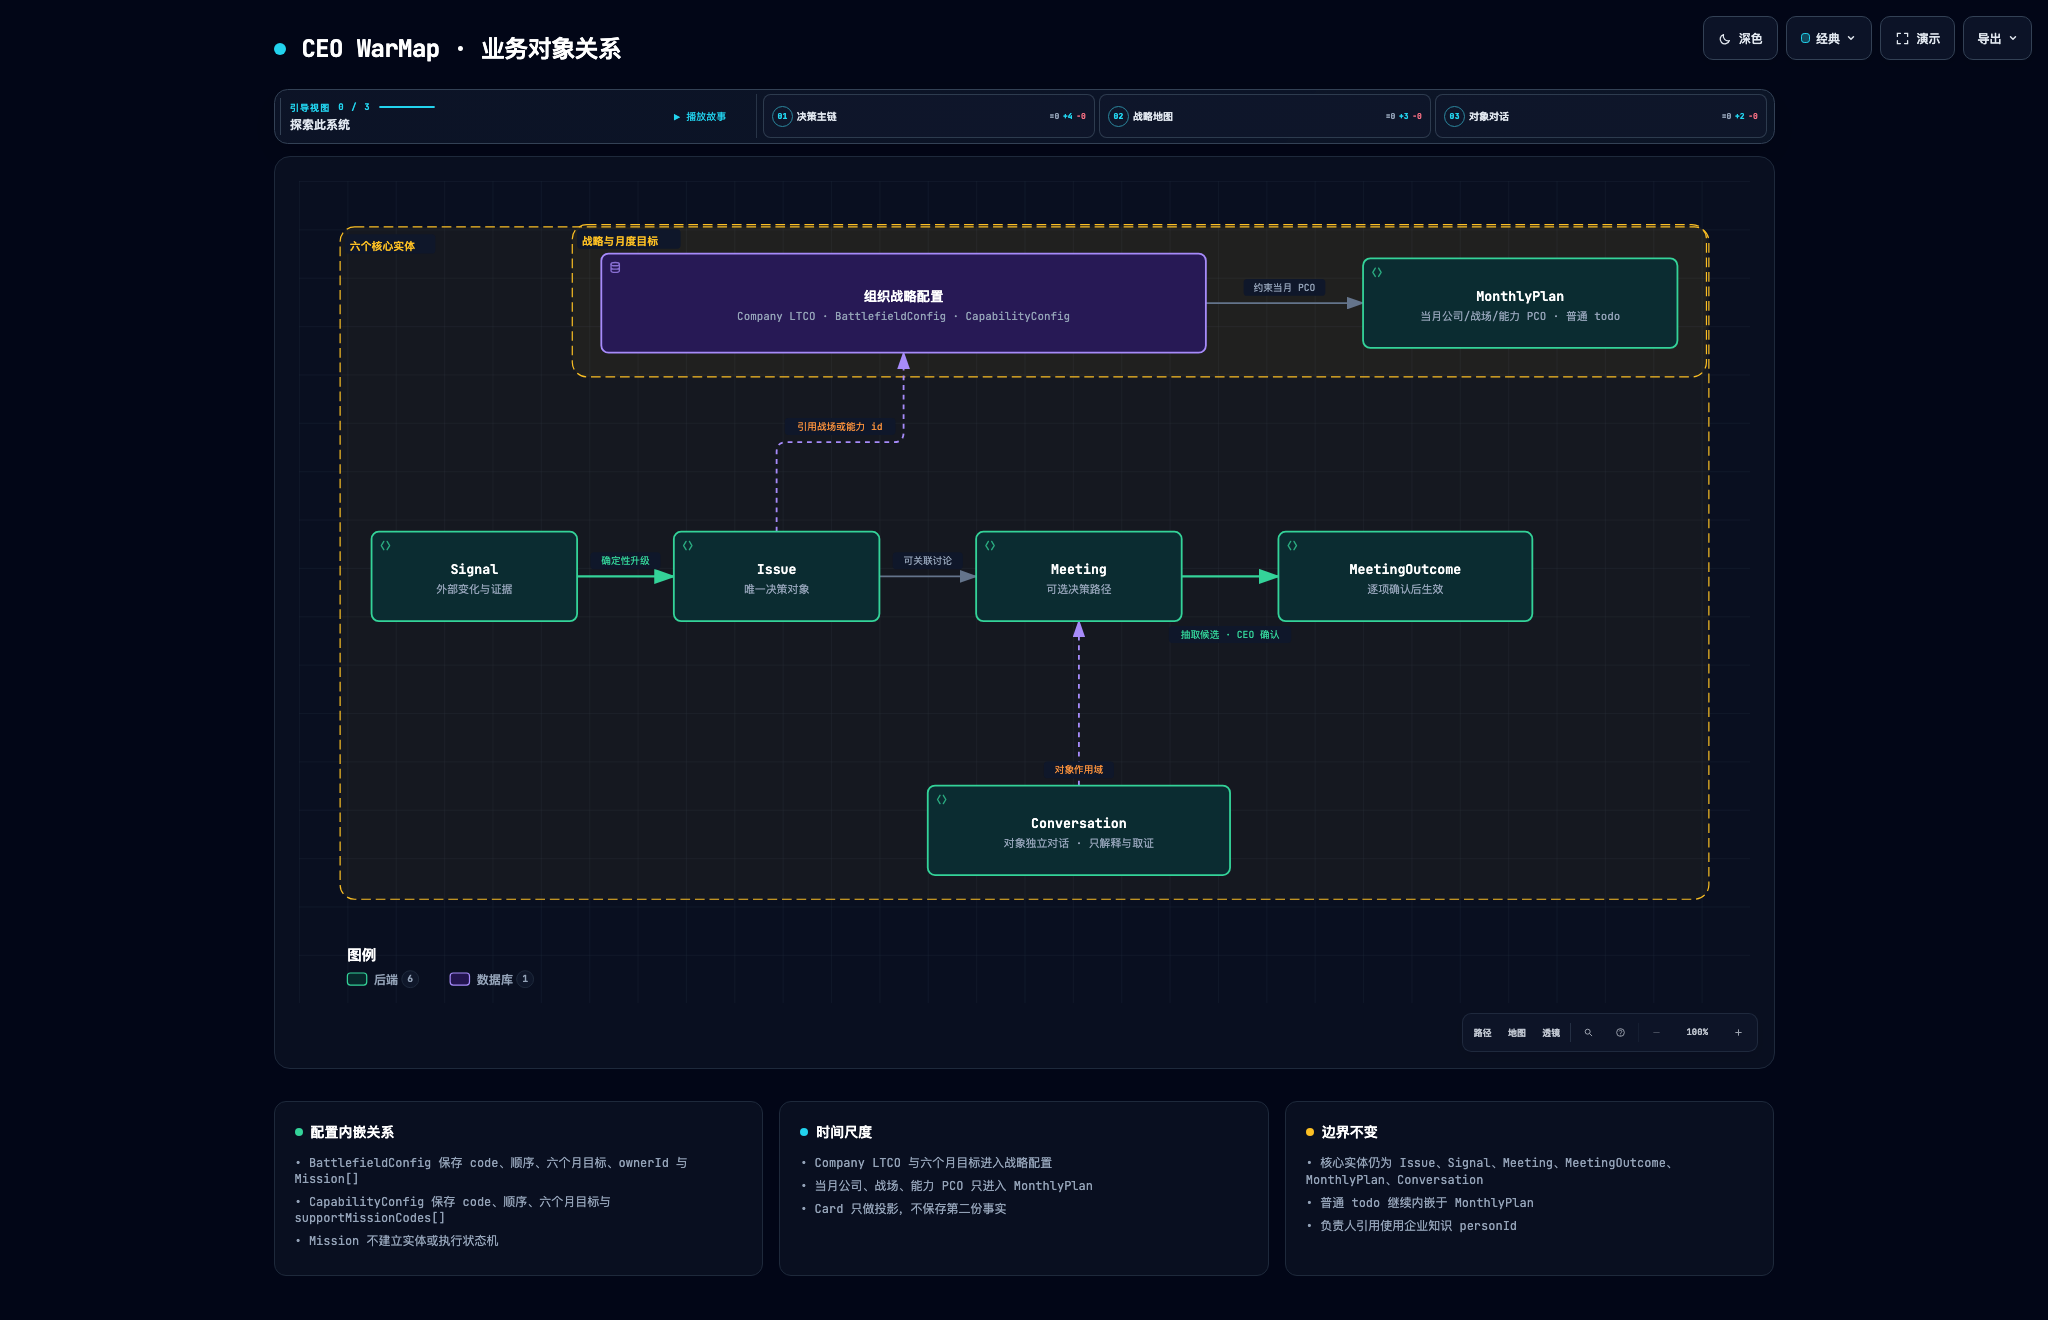
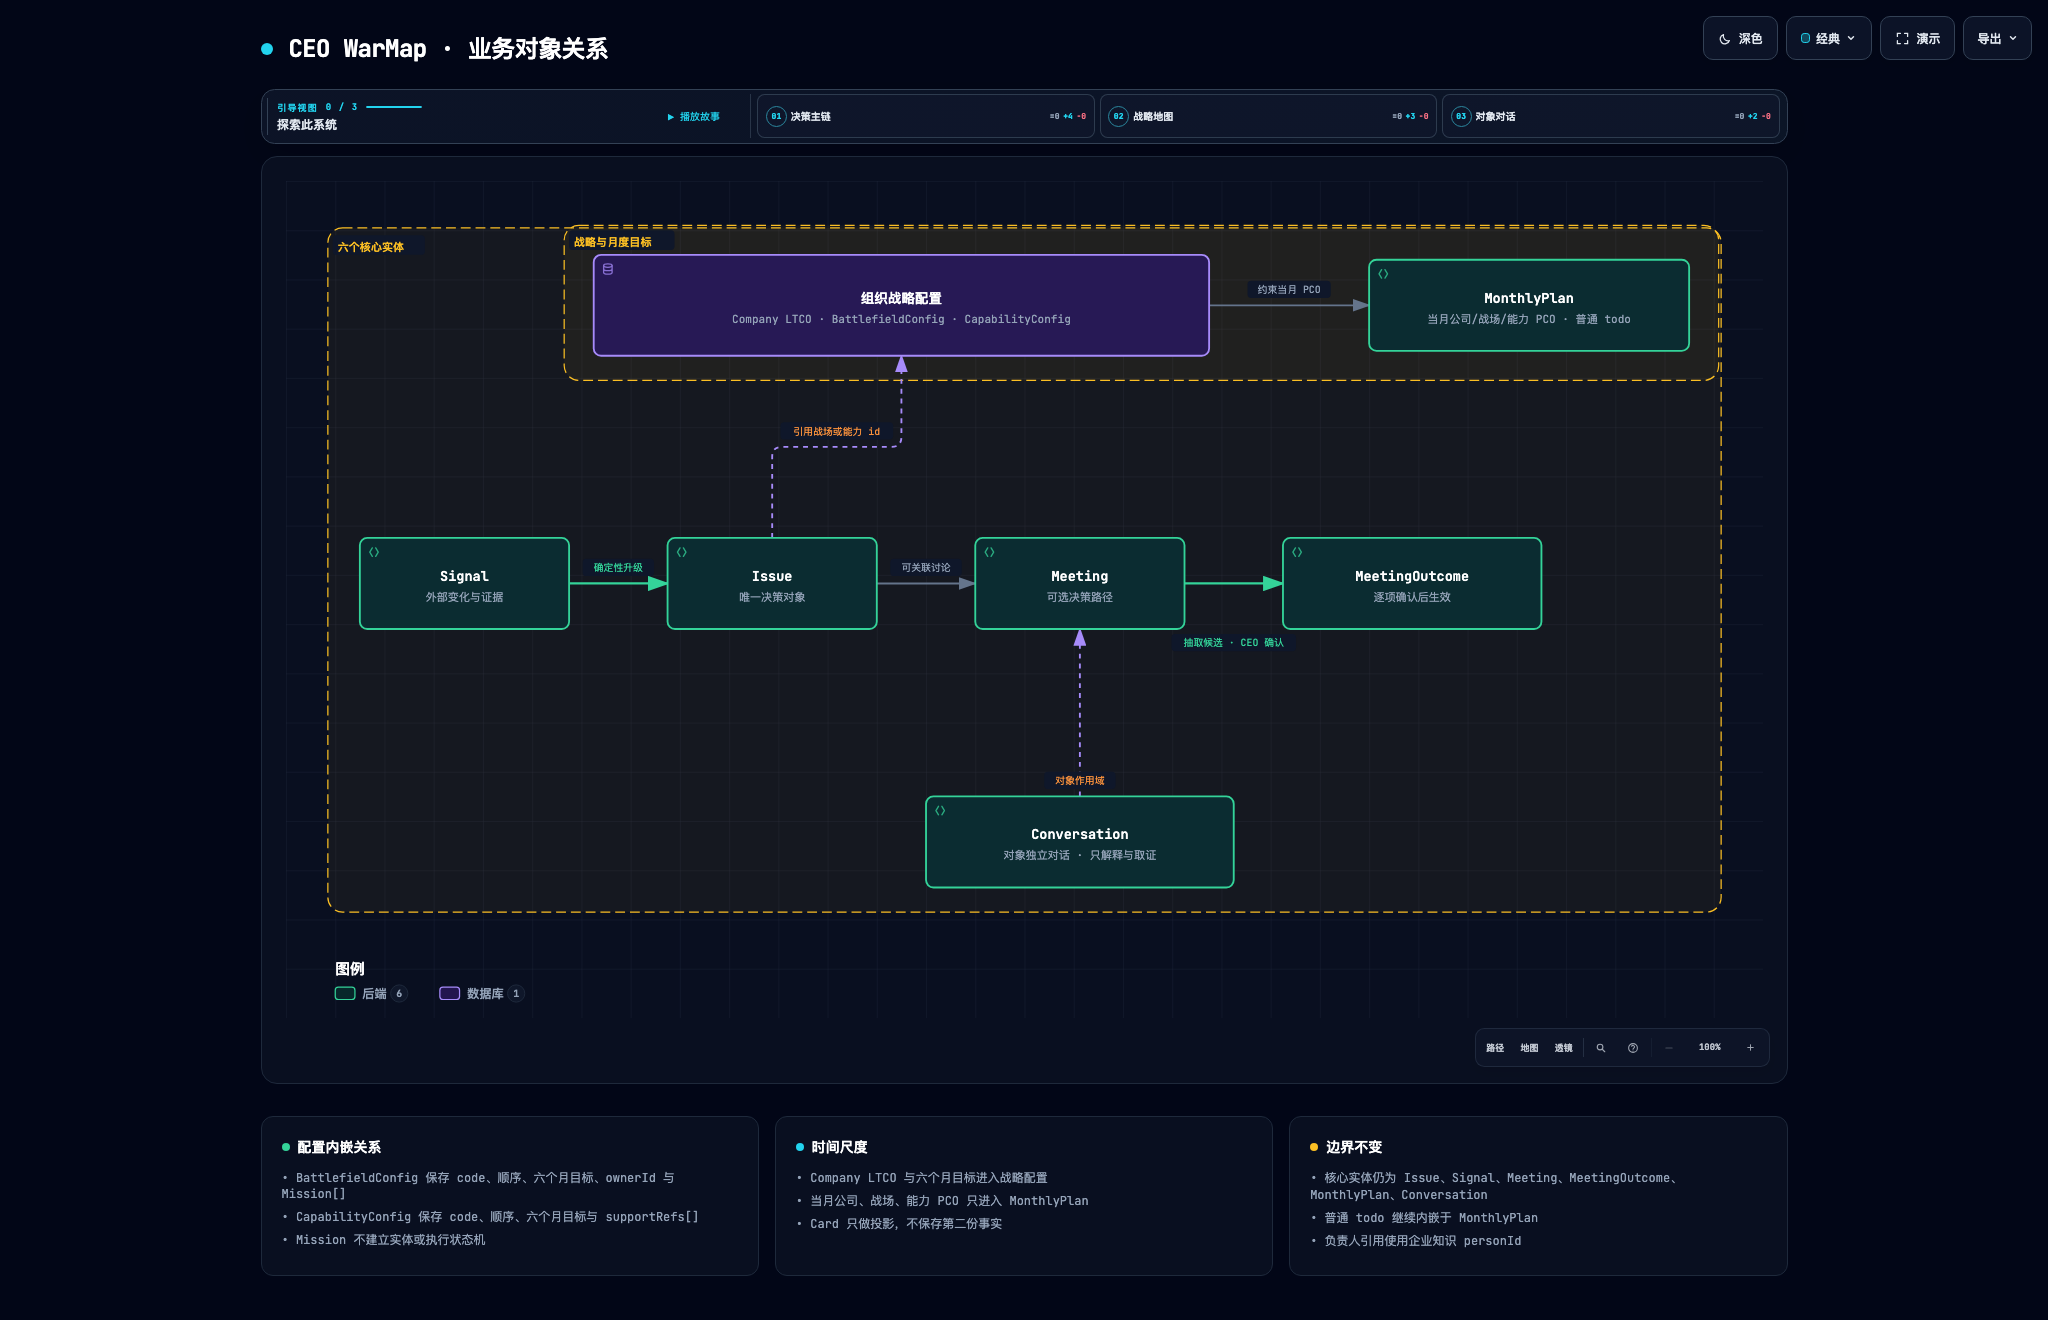
chore(strategy-map): 导入战场图数据、重出关系图并完成 staging 验收
- 关系图 `supportMissionCodes[]` → `supportRefs[]`，Archify validate 9/9 +
  deliver + 全视口 visual-check 重跑；README 架构图列表补入口。
- W5 经 API 导入 LTCO、3 个战场（含 Mission）与 7 个能力（含 supportRefs）；
  `DELETE /api/config/battlefields/growth` 走 deleteBattlefield，受影响议题 0。
- 已签发 2026-09 MonthlyPlan 经授权受控 SQL 事务修订为 v6：
  3 战场 PCO + 7 能力 PCO + 补全 checkedItemIds；company_outcome 占位未动。
- ticket 26 Status → resolved，补 W5 验证记录；map.md 追加 26 resolved。

diff --git a/docs/diagrams/CEOwarmap_业务对象关系.html b/docs/diagrams/CEOwarmap_业务对象关系.html
@@ -5496,7 +5496,7 @@ OTHER DEALINGS IN THE FONT SOFTWARE.
         </div>
         <ul>
           <li>&bull; BattlefieldConfig 保存 code、顺序、六个月目标、ownerId 与 Mission[]</li>
-          <li>&bull; CapabilityConfig 保存 code、顺序、六个月目标与 supportMissionCodes[]</li>
+          <li>&bull; CapabilityConfig 保存 code、顺序、六个月目标与 supportRefs[]</li>
           <li>&bull; Mission 不建立实体或执行状态机</li>
         </ul>
       </div>

diff --git a/.scratch/ceo-warmap-mvp/issues/26-strategy-map-structured-model.md b/.scratch/ceo-warmap-mvp/issues/26-strategy-map-structured-model.md
@@ -1,7 +1,7 @@
 # Ticket 26 · 战场图结构化模型（A+B）
 
 Type: feature
-Status: planned
+Status: resolved
 Blocked by: none
 来源: 词元云集《战场图 V1》图片导入 + 用户选择 A+B
 视觉基线: `UpgradeDesign.pen`
@@ -105,3 +105,32 @@ Blocked by: none
 - Mission 只有配置引用，无执行状态。
 - 关系图与代码一致且通过 Archify 验证。
 - 工作区干净，未 push。
+
+## Comments
+
+### W5 完成记录（2026-09-22）
+
+提交：W1 `bd3fd29`、W2 `762b918`、W3 `520f6ed`、W4 `3b9a1da`、W5（本次）。
+
+**迁移与对象关系**：migration `019_strategy_map_config.sql` 只改结构（`battlefield_config` 增加 `code/sort_order/owner_id/six_month_outcome/missions`，唯一索引 `battlefield_config_code_key … WHERE code <> ''`，CHECK `sort_order BETWEEN 0 AND 9999`；新建 `company_strategy_config`，仅插入 `('default',1,'')`；`capability_config` 增加 `code/sort_order/group/support_refs`），不写任何图片业务数据。数据由 W5 通过 API 与受控 SQL 事务导入。
+
+**数据导入（全部经 API，未直写业务表）**：
+- `PATCH /api/config/strategy` → `{version:2, ltco:春节前…真实价值。}`。
+- `PATCH /api/config/battlefields/{id}`：`01-灯塔项目`（code 01/10、4 个 Mission）、`02-token-ops`（code 02/20、1 个 Mission）、`03-002-客户`（code 03/30、无 Mission）；`ownerId` 未设置，保持「待指派」。
+- `PATCH /api/config/capabilities/{id}`：7 项，`code/sortOrder` 为 02/20…09/90，`group` 清空，`supportRefs` 按 ticket 事实写入。
+- `DELETE /api/config/battlefields/growth`（走 `deleteBattlefield`）：删除前用 SQL 记录受影响议题 = **0**（`detachedIssues = 0`，无 `growth` 引用），响应 204；删除后战场 = 3。
+- 已签发 2026-09 MonthlyPlan（id `ffc24db5-8b4e-4766-ac64-4a7cdaf00aeb`）经授权用受控 SQL 事务修订：`version 5 → 6`，写入 3 个战场 PCO + 7 个能力 PCO，`negotiation.checkedItemIds` 补全为 11 项；`company_outcome` 占位、`todos`/`feedback`/`exports` 未动。API 对已签发计划返回 409 `MONTHLY_PLAN_CONFIRMED`，故必须走受控事务。
+
+**测试**：typecheck ×3 通过；contracts 32；web 21 文件 / 123；API 27 文件 / 328（326 通过，`outletSources.test.ts` 2 项为与本次无关的既有时间窗波动）。
+
+**staging（重建 api+web、迁移 019 已应用）**：
+- `GET /api/config/battlefields` → 3 项，code/sortOrder 01/10、02/20、03/30，负责人均为空（待指派），Mission 4/1/0。
+- `GET /api/config/capabilities` → 7 项，02/20…09/90，`group` 空，`supportRefs` 与 ticket 一致。
+- `GET /api/cards/home` → 3 张 battlefield + 7 张 capability，顺序与图片一致。
+- `GET /api/cards/monthly-plans` → 2026-09 confirmed v6，3 战场 PCO + 7 能力 PCO，已核对 11 项。
+
+**浏览器验收（Chrome DevTools MCP，1440 / 2560 宽）**：首页 3 战场（灯塔项目/Token Ops/002 客户，负责人「待指派」、六个月目标全文）+ 7 能力（02…09 按 sortOrder）；列数 1440=3、1200=2、800=1，四页均无横向溢出。配置页 LTCO 文本与「保存长期目标」可见。战场管理 3 行（`负责人 待指派 · 0 个议题`）；能力管理 7 行（02/03/04/05/07/08/09）。月度计划页 `已签发`，显示 3 战场 PCO + 7 能力 PCO 与「已核对 11 项」。截图与 OCR 文本已核对（截图存于临时目录，未入库）。
+
+**关系图**：`docs/diagrams/CEOwarmap_业务对象关系.architecture.json` 的 `supportMissionCodes[]` 改为 `supportRefs[]`；Archify `validate --quality showcase` 9/9 通过（composition 0 error/0 warning），`deliver` 产物 sha256 `297ff9b3…e652a6`，`visual-check` 在 1440x900/1600x1000/1920x1080/2048x1320 明暗两套下 status pass、containment pass、无溢出；`rg supportMissionCodes docs/diagrams/` 已无残留。README 架构图列表已加入该 HTML。
+
+**未做/限制**：`growth` 删除只清结构，历史 MonthlyPlan JSONB 快照不重写（按 `deleteBattlefield` 既有语义）；2026-09 计划的 `company_outcome` 仍是占位文本（无已确认公司结果材料，未编造）；`outletSources.test.ts` 2 项既有波动未修（超出本 ticket 范围）；未 push。

diff --git a/.scratch/ceo-warmap-mvp/map.md b/.scratch/ceo-warmap-mvp/map.md
@@ -71,3 +71,4 @@ Spec: `spec.md`
 - 25 resolved：2026-09-22 注册表对象编辑。W1 `c291c8e` 战场/能力 PATCH config 路由（id 稳定、version+1、重名 409）+ `GET /api/config/capabilities`；W2 `0630e82` `meeting.edit_details` opaque action（仅 scheduled、fingerprint 幂等、版本锚定、换 lead 同步 participants）；W3 `c5184d8` 三处编辑 UI（战场行铅笔弹层、`/config/capabilities` 新页与配置页「管理能力」入口、MeetingCard 编辑会议弹层）。W4 在 staging 发现并修复两处缺陷（`da96838`）：改名去重原先只比 `id`，漏掉 migration 手写 id（`growth` 显示名「增长战场」）导致可造显示重名；`PatchBattlefieldRequest.owner` 的 `minLength: 1` 与 `owner NOT NULL DEFAULT ''` 冲突，使负责人为空的行点保存必然 400，改为按显示名去重 + owner 允许空串 + 弹层只提交改动字段。验证：typecheck ×3、contracts 28、web 108、API 323，staging 重建 api+web 后 curl 与浏览器复验通过，验证对象已删、会议内容已恢复。
 
 ## Comments
+- 26 resolved：2026-09-22 战场图结构化模型（A+B）。W1 `bd3fd29` 新增 ADR 0018、migration 019（只改结构）与契约重构（`code` 必填、`sortOrder` 整数、`ownerId` 可空、Strategy GET/PATCH、`MonthlyPlanCapability`）；W2 `762b918` `/api/config/strategy` 与战场/能力结构化写入、owner/supportRefs 校验；W3 `520f6ed` 能力 PCO 贯穿草案生成/编辑/核对/签发；W4 `3b9a1da` 首页 3/2/1 列、战场卡负责人+六个月目标、能力面板与两处管理编辑弹层、配置页 LTCO；W5 通过 API 导入 3 战场 / 7 能力 / LTCO，删除 `growth`（受影响议题 0），并授权用受控 SQL 事务把已签发 2026-09 计划修订为 v6（3 战场 PCO + 7 能力 PCO）；关系图 `supportRefs` 重出并通过 Archify 9/9 与全视口 visual-check。验证：typecheck ×3、contracts 32、web 123、API 326/328（2 项既有波动），staging 重建 + Chrome 双宽验收通过；工作区干净，未 push。

diff --git a/docs/technical/ceo-warmap/README.md b/docs/technical/ceo-warmap/README.md
@@ -9,6 +9,7 @@
 
 ## 架构图
 
+- `docs/diagrams/CEOwarmap_业务对象关系.html`
 - `docs/diagrams/CEOwarmap_技术架构.html`
 - `docs/diagrams/CEOwarmap_六实体生命周期.html`
 - `docs/diagrams/CEOwarmap_雷达自动升级时序.html`
